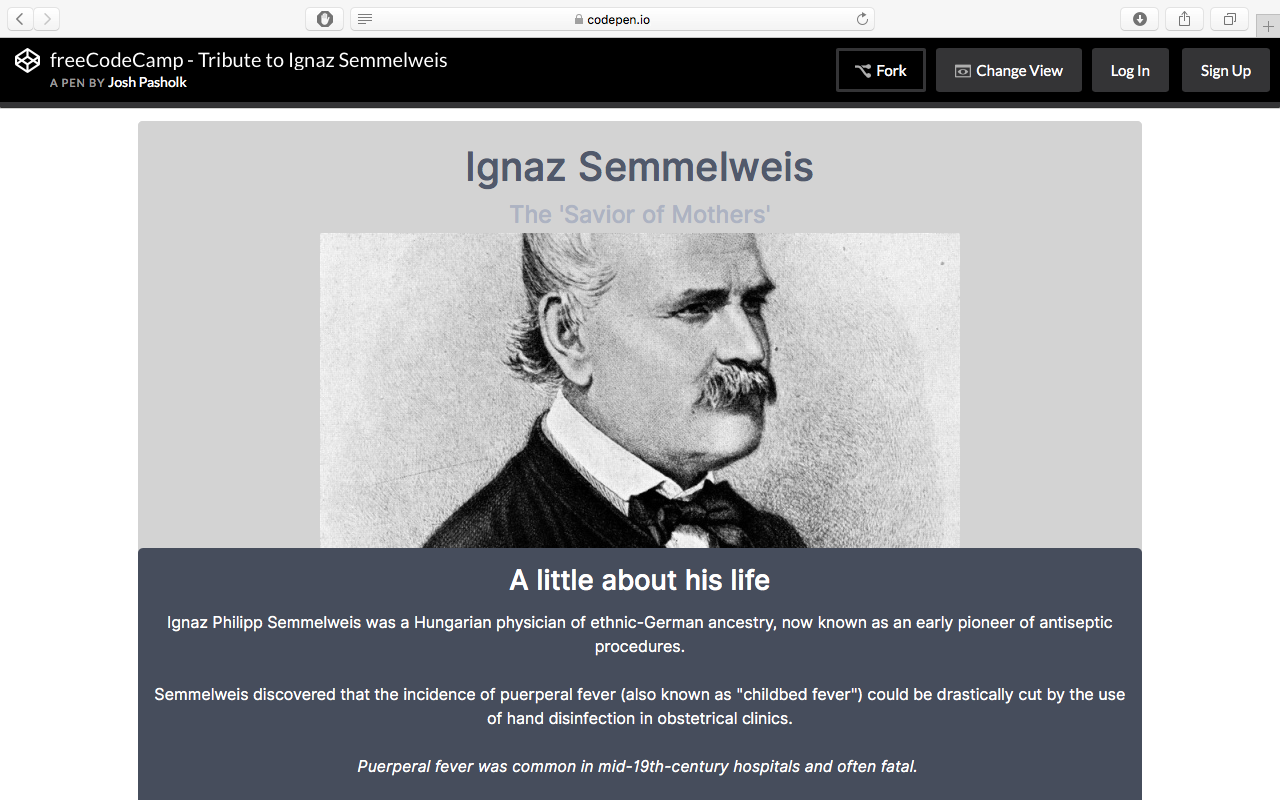
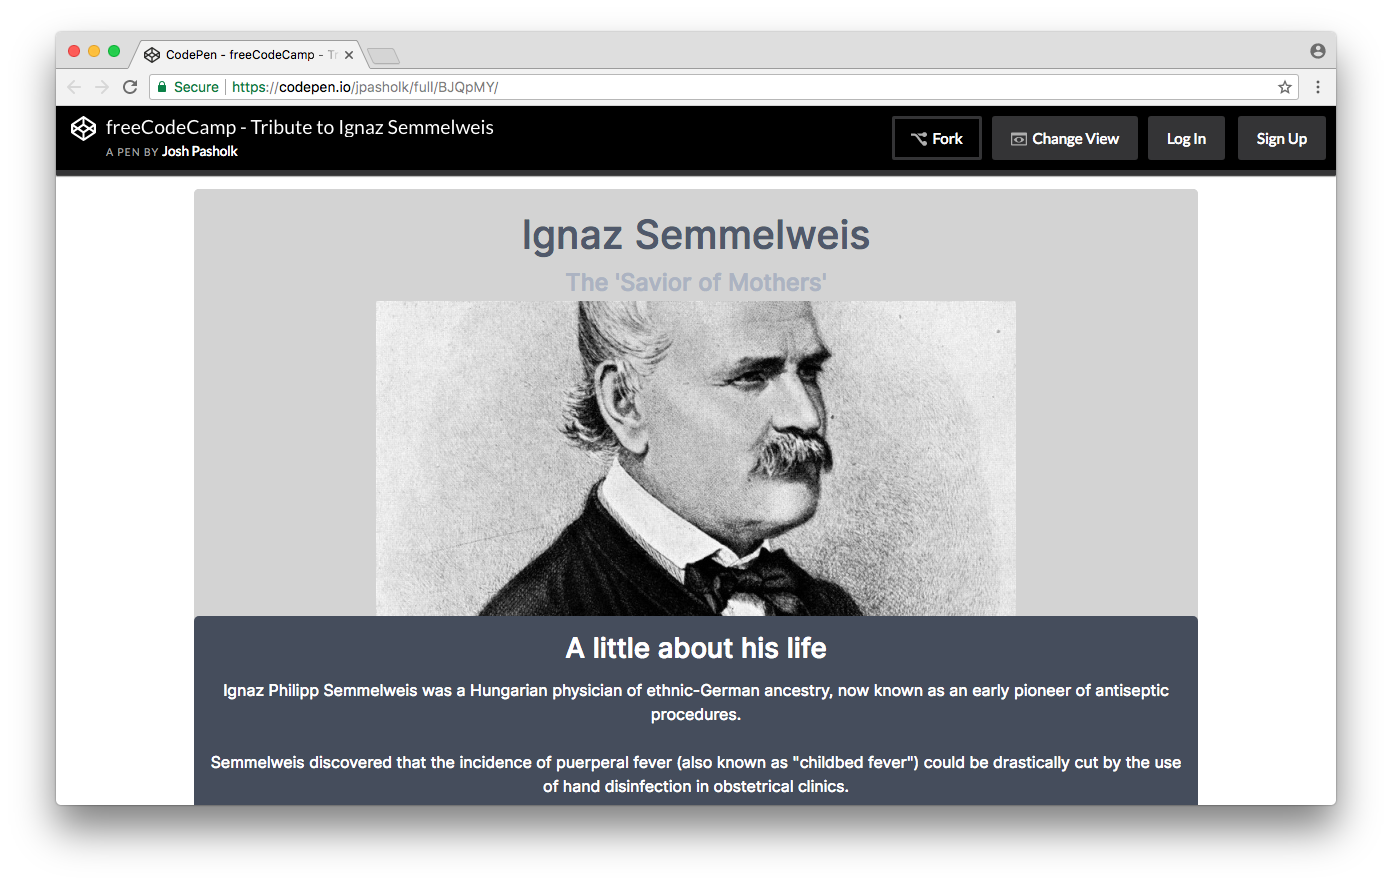
More layout stuff
* Changed image for the tribute page. The other one was a tiny bit larger.

* Changed some animation times for a smoother experience.

diff --git a/_includes/body.html b/_includes/body.html
@@ -22,7 +22,7 @@
     <div id="Projects" class="uk-section uk-section-muted">
       <div class="uk-container">
 
-        <h2>Current Projects</h2>
+        <h2 class="uk-heading-line"><span>Current Projects</span></h2>
 
         <div class="uk-grid-match uk-child-width-1-3@m uk-flex" uk-grid>
 
@@ -46,7 +46,7 @@
               </div>
             </div>
             <div class="uk-flex">
-              <a class="uk-button uk-button-default uk-border-rounded uk-border-rounded" href="https://codepen.io/jpasholk/full/BJQpMY/" target="_blank">Link</a>
+              <a class="uk-button uk-button-default uk-border-rounded" href="https://codepen.io/jpasholk/full/BJQpMY/" target="_blank">Link</a>
             </div>
           </div>
 
@@ -67,9 +67,9 @@
     </div>
 
     <div id="Contact" class="uk-section uk-section-secondary">
-      <div uk-scrollspy="target: > div; cls:uk-animation-fade; delay: 600; repeat: true" class="uk-container">
+      <div uk-scrollspy="target: > div; cls:uk-animation-fade; delay: 400; repeat: true" class="uk-container">
 
-        <h3>Contact</h3>
+        <h2 class="uk-heading-line"><span>Contact</span></h2>
 
         <div class="uk-grid-match uk-child-width-1-2@m" uk-grid>
 
@@ -104,11 +104,12 @@
     <div id="Blog" class="uk-section uk-section-default">
       <div class="uk-container">
 
-        <h2>Latest Blog Posts</h2>
+        <h2 class="uk-heading-line"><span>Latest Blog Posts</span></h2>
+
         <article class="uk-article">
-          <div uk-scrollspy="cls: uk-animation-slide-bottom-small; repeat: true">
+          <div uk-scrollspy="cls:uk-animation-fade; repeat: true; delay: 400">
             {% for post in paginator.posts %}
-            <h4 class="uk-article-title"><a class="uk-link-text"href="{{ post.url }}">{{ post.title }}</a></h4>
+            <h4><a class="uk-link-text"href="{{ post.url }}">{{ post.title }}</a></h4>
             <p class="uk-article-meta">
               <span class="date">{{ post.date | date_to_string }}</span>
             </p>

diff --git a/_includes/footer.html b/_includes/footer.html
@@ -1,5 +1,5 @@
 <footer>
-  <div uk-scrollspy="target: > div; cls:uk-animation-fade; delay: 600; repeat: true" class="uk-section uk-section-muted uk-section-xsmall">
+  <div uk-scrollspy="target: > div; cls:uk-animation-fade; delay: 500; repeat: true" class="uk-section uk-section-muted uk-section-xsmall">
     <div class="uk-container">
       <div class="uk-grid-match uk-child-width-1-1@m" uk-grid>
         <div class="uk-text-center uk-text-small">

diff --git a/_includes/header.html b/_includes/header.html
@@ -1,5 +1,5 @@
 <header>
-  <div uk-sticky="animation: uk-animation-slide-top; sel-target: .uk-navbar-container; cls-active: uk-navbar-sticky; cls-inactive: uk-dark; top: 1460">
+  <div uk-sticky="animation: uk-animation-slide-top; sel-target: .uk-navbar-container; cls-active: uk-navbar-sticky; cls-inactive: uk-dark; top: 800">
 
     <nav class="uk-navbar-container uk-animation-slide-top-small" uk-navbar>
       <div class="uk-navbar-left">
